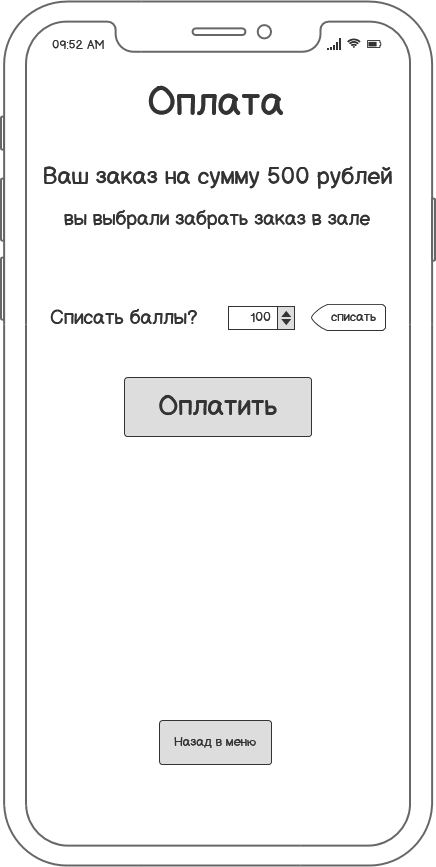
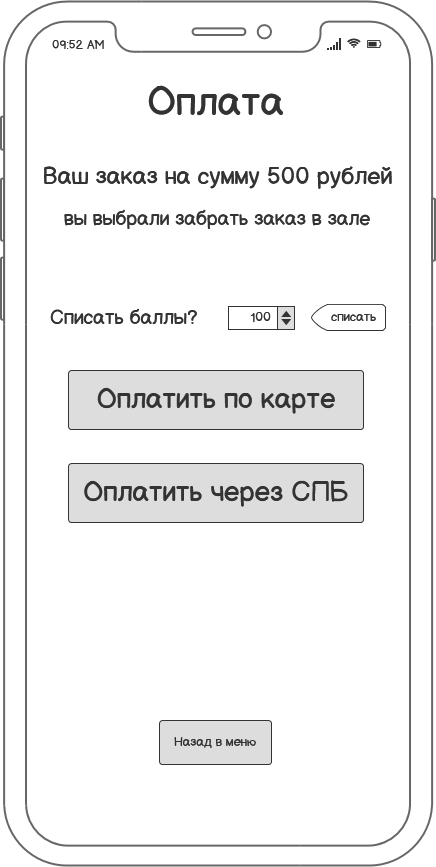
+

Changed region(s): [[0.1491, 0.4048, 0.8349, 0.6228]]

diff --git a/docs/requirements.md b/docs/requirements.md
@@ -44,7 +44,7 @@
 
 ### Описания Use Case для зала ресторана, реализуемых в рамках MVP
 
-Сценарии зала ресторана
+#### UC-1 Оформление заказа
 
 | Вариант использования     | UC-1 Оформление заказа                                                                                                                                                                                                                                                                                                                |
 | ------------------------- | ------------------------------------------------------------------------------------------------------------------------------------------------------------------------------------------------------------------------------------------------------------------------------------------------------------------------------------- |
@@ -57,6 +57,7 @@
 | Исключительные ситуации   | 1\. Пользователь не совершает действий в течении 2-х минут<br>2\. Система спрашивает пользователя, будет ли он продолжать взаимодействие<br>3\. Пользователь не совершает действий в течении 2-х минут после запроса системы<br>4\. Система переходит на начальный экран                                                              |
 | Диаграмма   | ![](diagrams/out/UseCase-1.svg){ width="100" }  |
 
+#### UC-2 Регистрация в системе лояльности
 
 | Вариант использования     | UC-2 Регистрация в системе лояльности                                                                                                                                                                                                                                                                                                                                                                                                                                                                                |
 | ------------------------- | -------------------------------------------------------------------------------------------------------------------------------------------------------------------------------------------------------------------------------------------------------------------------------------------------------------------------------------------------------------------------------------------------------------------------------------------------------------------------------------------------------------------- |
@@ -69,6 +70,7 @@
 | Исключительные ситуации   | 1\. Пользователь не совершает действий в течении 2-х минут<br>2\. Система спрашивает пользователя, будет ли он продолжать взаимодействие<br>3\. Пользователь не совершает действий в течении 2-х минут после запроса системы<br>4\. Система переходит на начальный экран                                                                                                                                                                                                                                             |
 | Диаграмма   | ![](diagrams/out/UseCase-2.svg){ width="100" }  |
 
+#### UC-3 Ознакомиться с меню
 
 | Вариант использования     | UC-3 Ознакомиться с меню                                                                                                                                                                                                                                                 |
 | ------------------------- | ------------------------------------------------------------------------------------------------------------------------------------------------------------------------------------------------------------------------------------------------------------------------ |
@@ -79,6 +81,8 @@
 | Описание                  | 1\. Пользователь выбирает раздел меню<br>2\. Система отображает товары выбранного раздела<br>3\. Пользователь выбирает товар<br>4\. Система отображает детальное описание товара                                                                                         |
 | Альтернативный сценарий   | 3.1. Пользователь выбирает товар, помеченный как недоступный<br>3.2. Система информирует пользователя о недоступности товара и предлагает замену                                                                                                                         |
 | Исключительные ситуации   | 1\. Пользователь не совершает действий в течении 2-х минут<br>2\. Система спрашивает пользователя, будет ли он продолжать взаимодействие<br>3\. Пользователь не совершает действий в течении 2-х минут после запроса системы<br>4\. Система переходит на начальный экран |
+
+#### UC-4 Добавить товар в корзину
 
 | Вариант использования     | UC-4 Добавить товар в корзину                                                                                                                                                                                                                                                                                     |
 | ------------------------- | ----------------------------------------------------------------------------------------------------------------------------------------------------------------------------------------------------------------------------------------------------------------------------------------------------------------- |
@@ -91,6 +95,7 @@
 | Исключительные ситуации   | 1\. Пользователь не совершает действий в течении 2-х минут<br>2\. Система спрашивает пользователя, будет ли он продолжать взаимодействие<br>3\. Пользователь не совершает действий в течении 2-х минут после запроса системы<br>4\. Система переходит на начальный экран                                          |
 | Диаграмма   | ![](diagrams/out/UseCase-4.svg){ width="100" }  |
 
+#### UC-5 Указать в зале или на вынос
 
 | Вариант использования     | UC-5 Указать в зале или на вынос                                                                                                                                                                                                                                         |
 | ------------------------- | ------------------------------------------------------------------------------------------------------------------------------------------------------------------------------------------------------------------------------------------------------------------------ |
@@ -102,15 +107,20 @@
 | Альтернативный сценарий   | 2.1. Пользователь не выбрал ни один из вариантов<br>2.2. Система предлагает выбрать способ забрать заказ в момент перехода пользователя к оплате заказа.                                                                                                                 |
 | Исключительные ситуации   | 1\. Пользователь не совершает действий в течении 2-х минут<br>2\. Система спрашивает пользователя, будет ли он продолжать взаимодействие<br>3\. Пользователь не совершает действий в течении 2-х минут после запроса системы<br>4\. Система переходит на начальный экран |
 
-| Вариант использования     | UC-6 Произвести оплату                                                                                                                                                                                                                                                                                                                                                   |
-| ------------------------- | ------------------------------------------------------------------------------------------------------------------------------------------------------------------------------------------------------------------------------------------------------------------------------------------------------------------------------------------------------------------------ |
-| Область действия          | Мобильное приложение или веб-приложение                                                                                                                                                                                                                                                                                                                                  |
-| Основное действующее лицо | Пользователь приложения                                                                                                                                                                                                                                                                                                                                                  |
-| Предусловие               | Пользователь начал процедуру оформления заказа<br>Пользователь вошёл в систему лояльности или отказался от входа и регистрации                                                                                                                                                                                                                                           |
-| Результат сценария        | Пользователь выбрал способ оплаты товара                                                                                                                                                                                                                                                                                                                                 |
-| Описание                  | 1\. Пользователь инициирует оплату заказа<br>2\. Система предлагает выбрать способ оплаты заказа<br>3\. Пользователь выбирает один из способов оплатить заказ<br>4\. Система переходит к сценарию оплаты в зависимости от выбора пользователя.                                                                                                                           |
-| Альтернативный сценарий   | 2.1 Система предлагает выбор из трех вариантов оплаты, если пользователь взаимодействует с системой на терминале самообслуживания в зале.<br>2.2 Система предлагает оплату по карте или списание баллов, если пользоваель взаимодействует с системой через мобильное приложение.<br>3.1. Пользователь выбирает возврат в корзину.<br>3.2. Система возвращается к шагу 1. |
-| Исключительные ситуации   | 1\. Пользователь не совершает действий в течении 2-х минут<br>2\. Система спрашивает пользователя, будет ли он продолжать взаимодействие<br>3\. Пользователь не совершает действий в течении 2-х минут после запроса системы<br>4\. Система переходит на начальный экран                                                                                                 |
+#### UC-6 Произвести оплату
+
+| Вариант использования     | UC-6 Произвести оплату                                                                                                                                                                                                                                                                                                                               |
+| ------------------------- | ---------------------------------------------------------------------------------------------------------------------------------------------------------------------------------------------------------------------------------------------------------------------------------------------------------------------------------------------------- |
+| Область действия          | Мобильное приложение или веб-приложение                                                                                                                                                                                                                                                                                                              |
+| Основное действующее лицо | Пользователь приложения                                                                                                                                                                                                                                                                                                                              |
+| Предусловие               | Пользователь начал процедуру оформления заказа<br>Пользователь вошёл в систему лояльности или отказался от входа и регистрации                                                                                                                                                                                                                       |
+| Результат сценария        | Пользователь выбрал способ оплаты товара                                                                                                                                                                                                                                                                                                             |
+| Описание                  | 1\. Пользователь инициирует оплату заказа<br>2\. Система проверяет, вошёл ли пользователь в систему лояльности<br>3\. Система предлагает выбрать способ оплаты заказа: списать баллы, по карте или СБП<br>4\. Пользователь выбирает один из способов оплатить заказ<br>5\. Система переходит к сценарию оплаты в зависимости от выбора пользователя. |
+| Альтернативный сценарий   | 2.1 Пользователь отказался от входа в систему лояльности<br>2.2 Система предлагает выбор из двух способов оплаты: по карте или через СБП<br>4.1. Пользователь выбирает возврат в корзину.<br>4.2. Система возвращается к шагу 1.                                                                                                                     |
+| Исключительные ситуации   | 1\. Пользователь не совершает действий в течении 2-х минут<br>2\. Система спрашивает пользователя, будет ли он продолжать взаимодействие<br>3\. Пользователь не совершает действий в течении 2-х минут после запроса системы<br>4\. Система переходит на начальный экран                                                                             |
+| Диаграмма   | ![](diagrams/out/UseCase-6.svg){ width="100" }  |
+
+#### UC-7 Оплата через СБП
 
 | Вариант использования     | UC-7 Оплата через СБП                                                                                                                                                                                                                                                                                                                                                                                         |
 | ------------------------- | ------------------------------------------------------------------------------------------------------------------------------------------------------------------------------------------------------------------------------------------------------------------------------------------------------------------------------------------------------------------------------------------------------------- |
@@ -122,6 +132,8 @@
 | Альтернативный сценарий   | 6.1. Система не получает подтверждения оплаты.<br>6.2 Система сообщает пользователю о том что оплата не выполена.<br>6.3 Система возвращается на шаг 1.                                                                                                                                                                                                                                                       |
 | Исключительные ситуации   | 1\. Пользователь не совершает действий в течении 2-х минут<br>2\. Система спрашивает пользователя, будет ли он продолжать взаимодействие<br>3\. Пользователь не совершает действий в течении 2-х минут после запроса системы<br>4\. Система возращается на главный экран                                                                                                                                      |
 
+#### UC-8 Списать баллы
+
 | Вариант использования     | UC-8 Списать баллы                                                                                                                                                                                                                                                                                                                                                    |
 | ------------------------- | --------------------------------------------------------------------------------------------------------------------------------------------------------------------------------------------------------------------------------------------------------------------------------------------------------------------------------------------------------------------- |
 | Область действия          | Мобильное приложение или веб-приложение                                                                                                                                                                                                                                                                                                                               |
@@ -131,6 +143,8 @@
 | Описание                  | 1\. Система отображает количество доступных для списания баллов и сумму заказа.<br>2\. Пользователь указывает количество баллов, которое хочет списать.<br>3\. Система запрашивает подтверждение списания выбранного пользователем количества баллов.<br>4\. Пользователь подтверждает списание.<br>5\. Система отображает стоимость заказа с учётом списания баллов. |
 | Альтернативный сценарий   | 5.1. Пользователь указал количество баллов равное или больше стоимости заказа на шаге 2.<br>5.2 Система списывает сумму баллов, не превышающих стоимость заказа.<br>5.3. Система информирует пользователя, что заказ оплачен.                                                                                                                                         |
 | Исключительные ситуации   | Пользователь не совершает действий в течении 2-х минут<br>Система спрашивает пользователя, будет ли он продолжать взаимодействие<br>Пользователь не совершает действий в течении 2-х минут после запроса системы<br>Система переходит на начальный экран                                                                                                              |
+
+#### UC-9 Оплата по карте
 
 | Вариант использования     | UC-7 Оплата по карте                                                                                                                                                                                                                                                                                                                                                                                                                    |
 | ------------------------- | --------------------------------------------------------------------------------------------------------------------------------------------------------------------------------------------------------------------------------------------------------------------------------------------------------------------------------------------------------------------------------------------------------------------------------------- |
@@ -142,6 +156,8 @@
 | Альтернативный сценарий   | 6.1. Система не получает подтверждения оплаты.<br>6.2 Система сообщает пользователю о том что оплата не выполена.<br>6.3 Система возвращается на шаг 1.                                                                                                                                                                                                                                                                                 |
 | Исключительные ситуации   | 1\. Пользователь не совершает действий в течении 2-х минут<br>2\. Система спрашивает пользователя, будет ли он продолжать взаимодействие<br>3\. Пользователь не совершает действий в течении 2-х минут после запроса системы<br>4\. Система возращается на главный экран                                                                                                                                                                |
 
+#### UC-10 Получить талон с номером заказа
+
 | Вариант использования     | UC-10 Получить талон с номером заказа                                                                                                                                                                                                                                            |
 | ------------------------- | -------------------------------------------------------------------------------------------------------------------------------------------------------------------------------------------------------------------------------------------------------------------------------- |
 | Область действия          | Веб-приложение                                                                                                                                                                                                                                                                   |
@@ -152,6 +168,8 @@
 | Альтернативный сценарий   |                                                                                                                                                                                                                                                                                  |
 | Исключительные ситуации   | 1\. Пользователь не совершает действий в течении 2-х минут<br>2\. Система спрашивает пользователя, будет ли он продолжать взаимодействие<br>3\. Пользователь не совершает действий в течении 2-х минут после запроса системы<br>4\. Система переходит на начальный экран         |
 
+#### UC-14 Оформить отказ от покупки
+
 | Вариант использования     | UC-14 Оформить отказ от покупки                                                                                                                                                                                                                                                                                                                                                                                                                                                                                                                                                                                 |
 | ------------------------- | --------------------------------------------------------------------------------------------------------------------------------------------------------------------------------------------------------------------------------------------------------------------------------------------------------------------------------------------------------------------------------------------------------------------------------------------------------------------------------------------------------------------------------------------------------------------------------------------------------------- |
 | Область действия          | Мобильное приложение или веб-приложение                                                                                                                                                                                                                                                                                                                                                                                                                                                                                                                                                                         |
@@ -161,6 +179,8 @@
 | Описание                  | 1\. Менеджер по гостеприимству уточняет у посетителя, какой заказ он хочет отменить.<br>2\. Посетитель сообщает номер заказа.<br>3\. Менеджер по гостеприимству запрашивает у системы список не выданных заказов.<br>4\. Система отображает список заказов, которые не были выданы.<br>5\. Менеджер по гостеприимству находит нужный заказ.<br>6\. Менеджер по гостеприимству отменяет выполнение заказа.<br>7\. Система помечает заказ как отменённый, удаляет заказ из очереди заказов на производство.<br>8\. Система помечает заказ как не доступный к выдаче и удаляет заказ из очереди заказов на выдачу. |
 | Альтернативный сценарий   | 5.1 Менеджер по гостеприимству не находит заказ в очереди не выданных заказов.<br>5.2 Менеджер по гостеприимству запрашивает у системы список выданных заказов.<br>5.3 Система отображает список выданных заказов.<br>5.4 Менеджер по гостеприимству находит заказ в списке выданных.<br>5.5. Менеджер по гостеприимству решает конфликтную ситуацию с посетителем, который хочет отменить уже выданный заказ.                                                                                                                                                                                                  |
 
+#### UC-16 Вернуть на карту
+
 | Вариант использования     | UC-16 Вернуть на карту                                                                                                                                                                                                                                                                                                                                                                                                                                                                                                                                                                                                                                                                                                                                                          |
 | ------------------------- | ------------------------------------------------------------------------------------------------------------------------------------------------------------------------------------------------------------------------------------------------------------------------------------------------------------------------------------------------------------------------------------------------------------------------------------------------------------------------------------------------------------------------------------------------------------------------------------------------------------------------------------------------------------------------------------------------------------------------------------------------------------------------------- |
 | Область действия          | Мобильное приложение или веб-приложение                                                                                                                                                                                                                                                                                                                                                                                                                                                                                                                                                                                                                                                                                                                                         |
@@ -169,6 +189,8 @@
 | Результат сценария        | Запущена процедура возврата средств на карту посетителя                                                                                                                                                                                                                                                                                                                                                                                                                                                                                                                                                                                                                                                                                                                         |
 | Описание                  | 1\. Менеджер по гостеприимству запрашивает у системы список отменённых заказов.<br>2\. Система формирует список отменённых заказов.<br>3\. Менеджер по гостеприимству выбирает отменённый заказ.<br>4\. Система отображает информацию о заказе и способе оплаты.<br>5\. Менеджер по гостеприимству убеждается, что оплата была выполена по карте.<br>6\. Менеджер по гостеприимству запускает процедуру отмены оплаты по карте.<br>7\. Система формирует запрос отмены оплаты в банк.<br>8\. Система ожидает подтверждения отмены оплаты.<br>9\. Система получает подтверждение отмены оплаты и информирует менеджера по гостеприимству о успешном завершении операции.<br>10\. Менеджер по гостеприимству информирует посетителя о том что средства будут возвращены на карту. |
 | Альтернативный сценарий   | 5.1 Менеджер по гостеприимству видит что оплата была выполнена через СБП.<br>5.2 Менеджер по гостеприимству запускает отмену оплаты через СБП.                                                                                                                                                                                                                                                                                                                                                                                                                                                                                                                                                                                                                                  |
+
+#### UC-17 Вернуть через СБП
 
 | Вариант использования     | UC-17 Вернуть через СБП                                                                                                                                                                                                                                                                                                                                                                                                                                                                                                                                                                                                                                                                                                                                                                                                             |
 | ------------------------- | ----------------------------------------------------------------------------------------------------------------------------------------------------------------------------------------------------------------------------------------------------------------------------------------------------------------------------------------------------------------------------------------------------------------------------------------------------------------------------------------------------------------------------------------------------------------------------------------------------------------------------------------------------------------------------------------------------------------------------------------------------------------------------------------------------------------------------------- |

diff --git a/docs/testcase.md b/docs/testcase.md
@@ -59,3 +59,25 @@ UC-2
 | -------- | --------------------------------------------------------------------------------------------------------------------------------------------------------- | ------------------------------------------------------------------- |
 | 1        | Система выполняет проверку логина (номера телефона) на совпадение с зарегистрированными пользователями                                                    | Пользователь с таким номером телефона уже зарегистрирован в системе |
 | 2        | Система выводит сообщение о том, что пользователь с таким номером телефона уже зарегистрирован. Система предлагает выполнить вход или восстановить пароль |                                                                     |
+
+## Произвести оплату
+UC-6
+
+Основной сценарий
+
+| Действие | Описание действия                                         | Результат                                                                                                                                                                                 |
+| -------- | --------------------------------------------------------- | ----------------------------------------------------------------------------------------------------------------------------------------------------------------------------------------- |
+| 1        | Добавить в корзину одну позицию, WF2                      | В корзине одна позиция товара                                                                                                                                                             |
+| 2        | Выполнить регистрацию в системе лояльности, WF5           | Пользователь зарегистрирован и аутентифицирован в системе лояльности                                                                                                                      |
+| 3        | Убедится, что баланс баллов лояльности положительный, WF6 | Пользователю начислены приветсвенные 100 баллов за регистрацию в системе лояльности                                                                                                       |
+| 4        | Находясь в корзине WF3, выбрать способ получения заказа   | Пользователь выбрал способ получения заказа                                                                                                                                               |
+| 5        | Находясь в корзине WF3, оформить заказ                    | Пользователь инициировал оформление заказа                                                                                                                                                |
+| 6        | В форме Оплаты WF8 выбрать списать баллы                  | 1\. Указанное количество баллов списано<br>2\. Доступное количество баллов для списания уменьшено на величину списанных баллов<br>3\. Сумма заказа уменьшена на величину списанных баллов |
+| 7        | Выбрать оплату по карте                                   | Пользователь перенаправлен на платёжный шлюз для указания платёжных реквизитов                                                                                                            |
+| 8        | Оплата подтверждена                                       | 1\. Пользователь видит номер талона для получения заказа<br>2\. Заказ отправлен на производство                                                                                           |
+
+Негативный сценарий
+
+| Действие | Описание действия                                     | Результат                                                                                                |
+| -------- | ----------------------------------------------------- | -------------------------------------------------------------------------------------------------------- |
+| 1        | Пользователь не аутентифицирован в системе лояльности | В форме Оплаты WF8 доступно только два способа оплаты: по карте и через СБП. Списание баллов не доступно |
